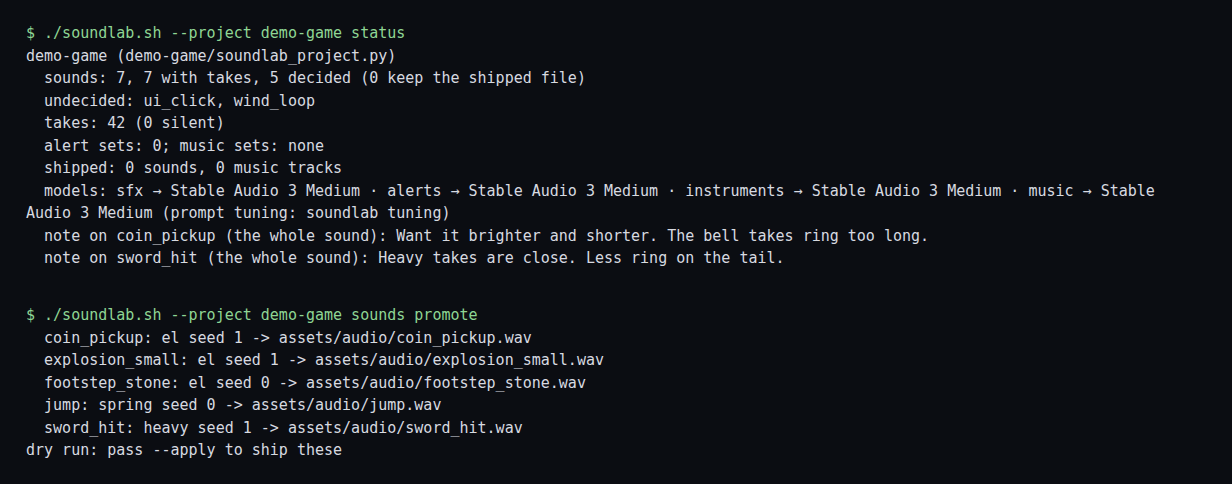
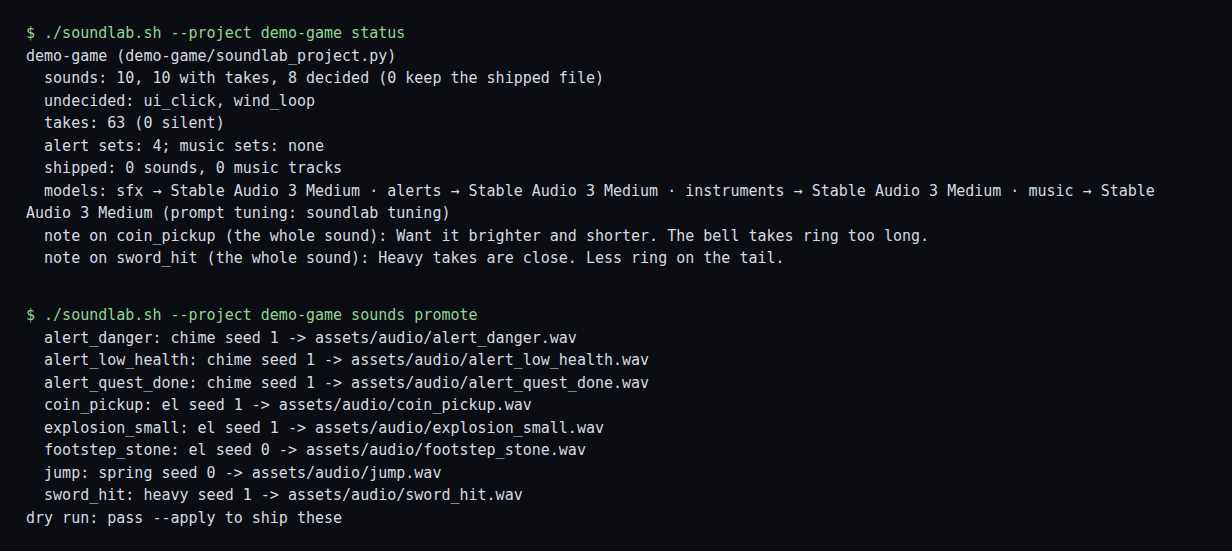
Demo screenshots: add Alerts and Balance pages, ship every demo sound
The demo game now has an alert set (stand-in recordings) and a version 2 mix
file, and the script runs `alerts build` and `balance measure` on it before
capturing the Alerts and Balance pages. All demo sounds are shipped files, so
the Balance page has something to measure. cli-status.png and sounds-page.png
are regenerated; the new pages are 1280 px wide and under 400 KB.

Changed region(s): [[0.0, 0.031, 0.9562, 0.9607]]

diff --git a/scripts/readme_screenshots.py b/scripts/readme_screenshots.py
@@ -2,8 +2,8 @@
 """Regenerate the README screenshots in docs/screenshots/.
 
 What it does, end to end:
-  1. Writes a small demo game (a soundlab_project.py and a handful of sounds) into a temporary folder.
-  2. Runs the real `sounds generate` pipeline on it (prompt variants x seeds, mastering, the index).
+  1. Writes a small demo game (a soundlab_project.py with a handful of sounds, an alert set and a mix file) into a temporary folder.
+  2. Runs the real `sounds generate`, `alerts build` and `balance measure` pipelines on it (prompt variants x seeds, mastering, the index).
      The model is replaced by a tiny numpy synthesiser, so the takes are STAND-IN AUDIO (beeps, sweeps, noise
      bursts), not Stable Audio 3 output. This needs no GPU and no model download.
   3. Writes some demo votes, starts `serve` on a spare port, and captures the web app with headless Chromium.
@@ -48,8 +48,25 @@ SOUNDS = {
     "explosion_small": ("oneshot", 2.0, "Small explosion, punchy low boom with a crackling debris tail.",
                         {"distant": "A distant explosion, rolling low rumble, muffled."}),
     "wind_loop": ("loop", 4.0, "Steady cold wind over a mountain ridge, seamless loop, soft gusts, no melody.", {}),
+    "alert_low_health": ("oneshot", 1.2, "Urgent descending two-note warning tone, soft synth pulse, dry.", {}),
+    "alert_quest_done": ("oneshot", 1.2, "Cheerful rising three-note chime, glassy and warm, dry.", {}),
+    "alert_danger": ("oneshot", 1.2, "Low insistent double pulse, a dull alarm thud, dry.", {}),
 }
-SHIPPED = ["coin_pickup", "ui_click", "footstep_stone", "sword_hit"]
+SHIPPED = list(SOUNDS)
+ALERTS = ["alert_low_health", "alert_quest_done", "alert_danger"]
+
+# The demo game's mix (the Balance page's "version": 2 sound table): buses, categories and events, each with its own dB.
+MIX = {"version": 2,
+       "buses": {"SFX": 0.0, "UI": -2.0, "Ambience": -4.0, "Alerts": 1.0},
+       "categories": {"reward": {"bus": "UI", "db": 0.0, "space": "2d"}, "ui": {"bus": "UI", "db": -3.0, "space": "2d"},
+                      "combat": {"bus": "SFX", "db": 0.0, "space": "2d"}, "world": {"bus": "SFX", "db": -2.0, "space": "2d"},
+                      "ambience": {"bus": "Ambience", "db": 0.0, "space": "2d"}, "alerts": {"bus": "Alerts", "db": 0.0, "space": "2d"}},
+       "sounds": {"coin_pickup": {"cat": "reward", "db": 1.5}, "ui_click": {"cat": "ui", "db": 0.0}, "jump": {"cat": "world", "db": 0.0},
+                  "footstep_stone": {"cat": "world", "db": -4.0}, "sword_hit": {"cat": "combat", "db": 0.0},
+                  "explosion_small": {"cat": "combat", "db": -1.0}, "wind_loop": {"cat": "ambience", "db": -3.0},
+                  "alert_low_health": {"cat": "alerts", "db": 0.0}, "alert_quest_done": {"cat": "alerts", "db": 0.0},
+                  "alert_danger": {"cat": "alerts", "db": 2.0}},
+       "music": {"levels": {}, "tracks": {}}}
 
 # Votes: take id -> 1 | -1; picks: sound -> take id. Take ids are "<sound>.<variant>.s<seed>".
 THUMBS = {
@@ -58,8 +75,11 @@ THUMBS = {
     "sword_hit.light.s0": -1, "sword_hit.light.s1": -1, "jump.el.s1": 1, "jump.spring.s0": 1, "jump.spring.s2": -1,
     "explosion_small.el.s1": 1, "explosion_small.distant.s0": -1, "footstep_stone.el.s0": 1, "footstep_stone.echo.s1": -1,
     "ui_click.el.s2": 1, "ui_click.el.s0": -1,
+    "alert_low_health.chime.s1": 1, "alert_low_health.chime.s3": -1, "alert_quest_done.chime.s1": 1, "alert_quest_done.chime.s2": 1,
+    "alert_danger.chime.s0": -1, "alert_danger.chime.s1": 1,
 }
-PICKS = {"coin_pickup": "coin_pickup.el.s1", "sword_hit": "sword_hit.heavy.s1", "jump": "jump.spring.s0",
+PICKS = {"alert_low_health": "alert_low_health.chime.s1", "alert_quest_done": "alert_quest_done.chime.s1", "alert_danger": "alert_danger.chime.s1",
+         "coin_pickup": "coin_pickup.el.s1", "sword_hit": "sword_hit.heavy.s1", "jump": "jump.spring.s0",
          "footstep_stone": "footstep_stone.el.s0", "explosion_small": "explosion_small.el.s1"}
 NOTES = {"coin_pickup": "Want it brighter and shorter. The bell takes ring too long.",
          "sword_hit": "Heavy takes are close. Less ring on the tail."}
@@ -95,6 +115,13 @@ def synth(name: str, prompt: str, seed: int, seconds: float) -> np.ndarray:
     elif name == "explosion_small":
         x = lp(noise, 30) * np.exp(-t * 2.2) * 6 + np.sin(2 * np.pi * 48 * j * t) * np.exp(-t * 3)
         x += 0.15 * noise * np.exp(-t * 6)
+    elif name.startswith("alert_"):
+        notes = {"alert_low_health": (660, 494), "alert_quest_done": (523, 659, 784), "alert_danger": (110, 110)}[name]
+        seg = len(t) // len(notes)
+        x = np.zeros(n)
+        for i, f in enumerate(notes):
+            tt = t[:seg]
+            x[i * seg:(i + 1) * seg] = np.sin(2 * np.pi * f * j * tt) * np.exp(-tt * 5) * (1 + 0.4 * np.sin(2 * np.pi * 6 * tt))
     else:  # wind_loop: slowly gusting low-passed noise, faded at the ends so it tiles
         gust = 0.6 + 0.4 * np.sin(2 * np.pi * (0.35 * j) * t + rng.uniform(0, 6))
         x = lp(noise, 14) * gust * 5
@@ -128,6 +155,7 @@ from soundlab.project import Project, Sound
 HERE = Path(__file__).resolve().parent
 SOUNDS = %(sounds)r
 SHIPPED = %(shipped)r
+ALERTS = %(alerts)r
 
 
 def project():
@@ -140,8 +168,18 @@ def project():
                              shipped=f if name in SHIPPED else None))
         return out
 
+    alerts = dict(
+        order=ALERTS,
+        legend={"recordings": "One generated take per alert, used whole."},
+        concepts={"chime": dict(family="recordings", label="Chimes",
+                                prompts={a: [SOUNDS[a][2], SOUNDS[a][1]] for a in ALERTS})},
+        scores={"recordings": {"alert_low_health": dict(what="descending pair: health is low"),
+                               "alert_quest_done": dict(what="rising triad: a quest is done"),
+                               "alert_danger": dict(what="low double pulse: enemies near")}},
+        recording_takes=4, tries=4)
+    balance = dict(mix=HERE / "assets" / "mix.json", dirs=["audio"])
     return Project(name="demo-game", root=HERE, work=HERE.parent / "work" / "demo-game", data=HERE.parent / "data",
-                   assets=HERE / "assets", sounds=sounds)
+                   assets=HERE / "assets", sounds=sounds, alerts=alerts, balance=balance)
 '''
 
 
@@ -149,11 +187,12 @@ def build_demo(game: Path) -> None:
     from soundlab import dsp
 
     game.mkdir(parents=True, exist_ok=True)
-    (game / "soundlab_project.py").write_text(PROJECT_PY % dict(sounds=SOUNDS, shipped=SHIPPED))
+    (game / "soundlab_project.py").write_text(PROJECT_PY % dict(sounds=SOUNDS, shipped=SHIPPED, alerts=ALERTS))
     (game / "assets" / "audio").mkdir(parents=True, exist_ok=True)
     for name in SHIPPED:  # the files the demo game "ships now", for the A/B against a take
         _, secs, p, _ = SOUNDS[name]
         dsp.write(game / "assets" / "audio" / f"{name}.wav", dsp.normalise(synth(name, p, 99, secs), -18.0, -1.0))
+    (game / "assets" / "mix.json").write_text(json.dumps(MIX, indent=1))  # the game's sound table, which the Balance page edits
     (game.parent / "data").mkdir(exist_ok=True)  # outside the game folder, so the lab uses it in place
     (game.parent / "data" / "prompts.json").write_text(json.dumps({n: v[3] for n, v in SOUNDS.items() if v[3]}, indent=1))
 
@@ -167,9 +206,10 @@ def generate(game: Path) -> None:
     engine.Engine = StubEngine
     from soundlab.__main__ import main
 
-    sys.argv = ["soundlab", "--project", str(game), "sounds", "generate", "--seeds", "3"]
-    if main():
-        sys.exit("generate failed")
+    for cmd in (["sounds", "generate", "--seeds", "3"], ["alerts", "build"], ["balance", "measure"]):
+        sys.argv = ["soundlab", "--project", str(game), *cmd]
+        if main():
+            sys.exit(f"{' '.join(cmd)} failed")
 
 
 def write_votes(game: Path) -> None:
@@ -209,7 +249,12 @@ def shots():
         page.wait_for_timeout(1500)  # (it plays once; let the one-second sound finish)
 
     # (file, URL hash, viewport height, what to do on the page first)
-    return [("sounds-page.png", "/#sounds/sword_hit", 1000, pick_take)]
+    def none(page):
+        pass
+
+    return [("sounds-page.png", "/#sounds/sword_hit", 1000, pick_take),
+            ("alerts-page.png", "/#alerts", 800, none),
+            ("balance-page.png", "/#balance", 1150, none)]
 
 
 def terminal_html(game: Path, commands: list[list[str]]) -> str:
